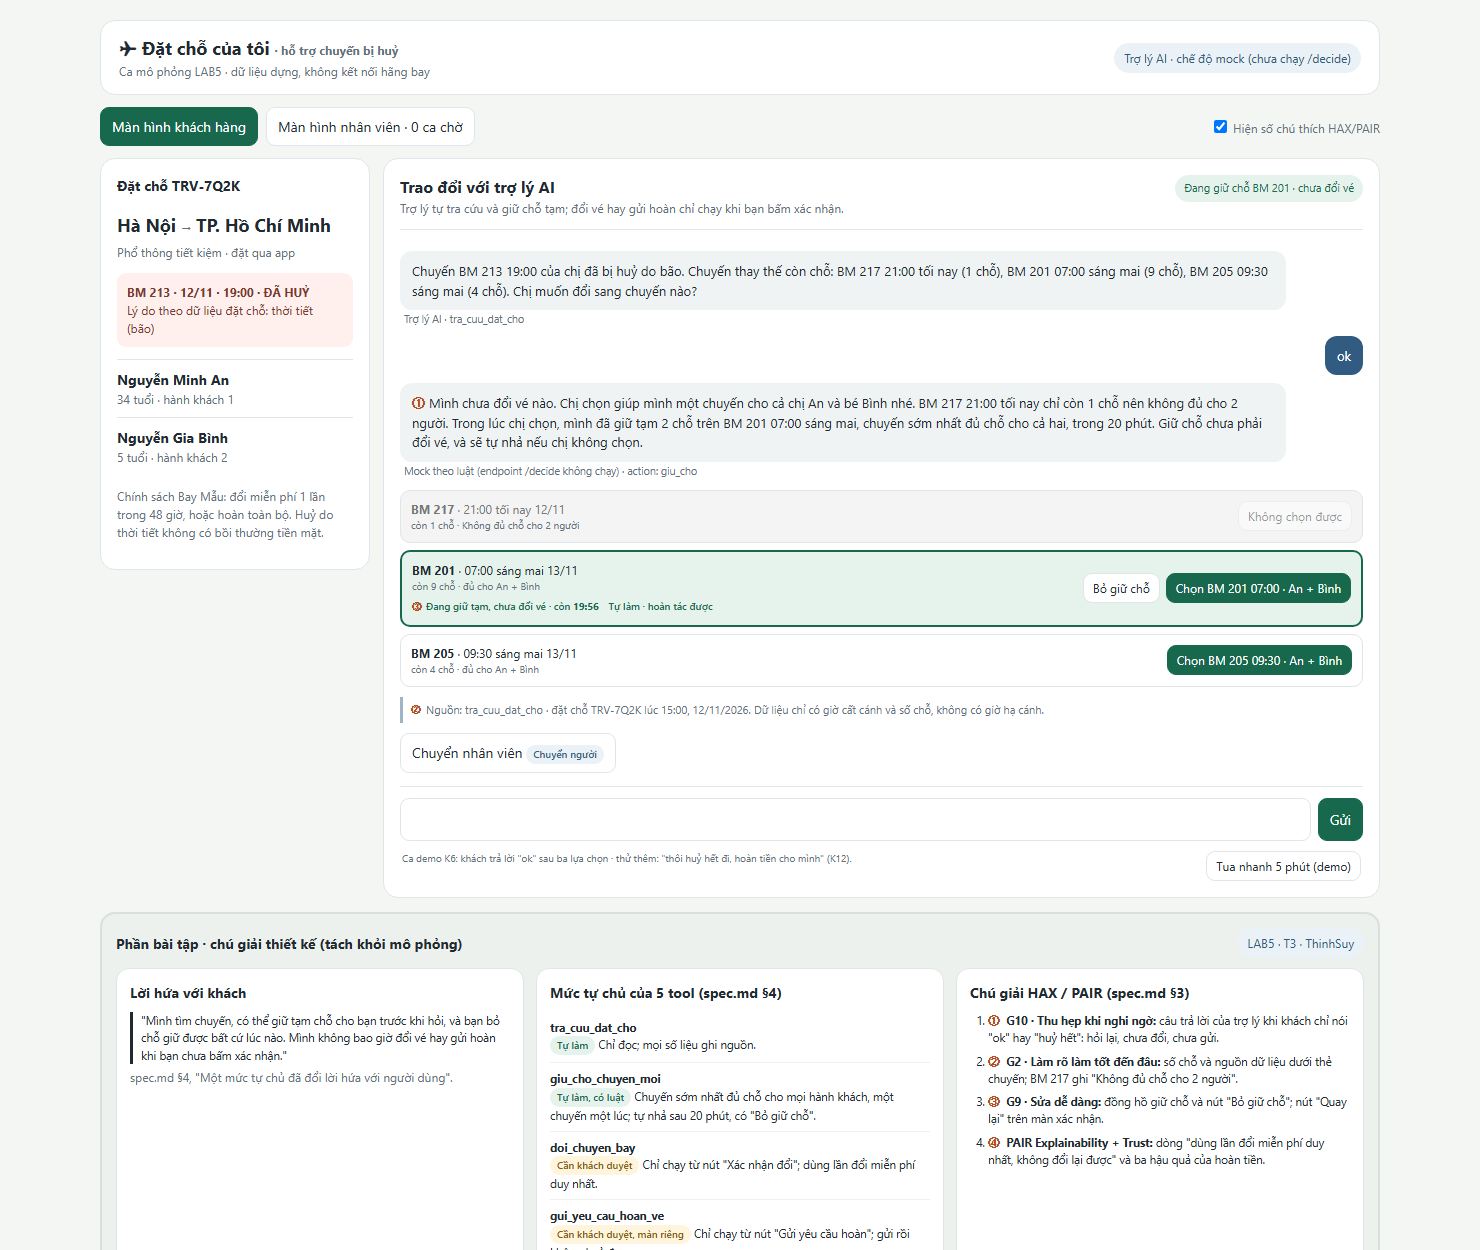
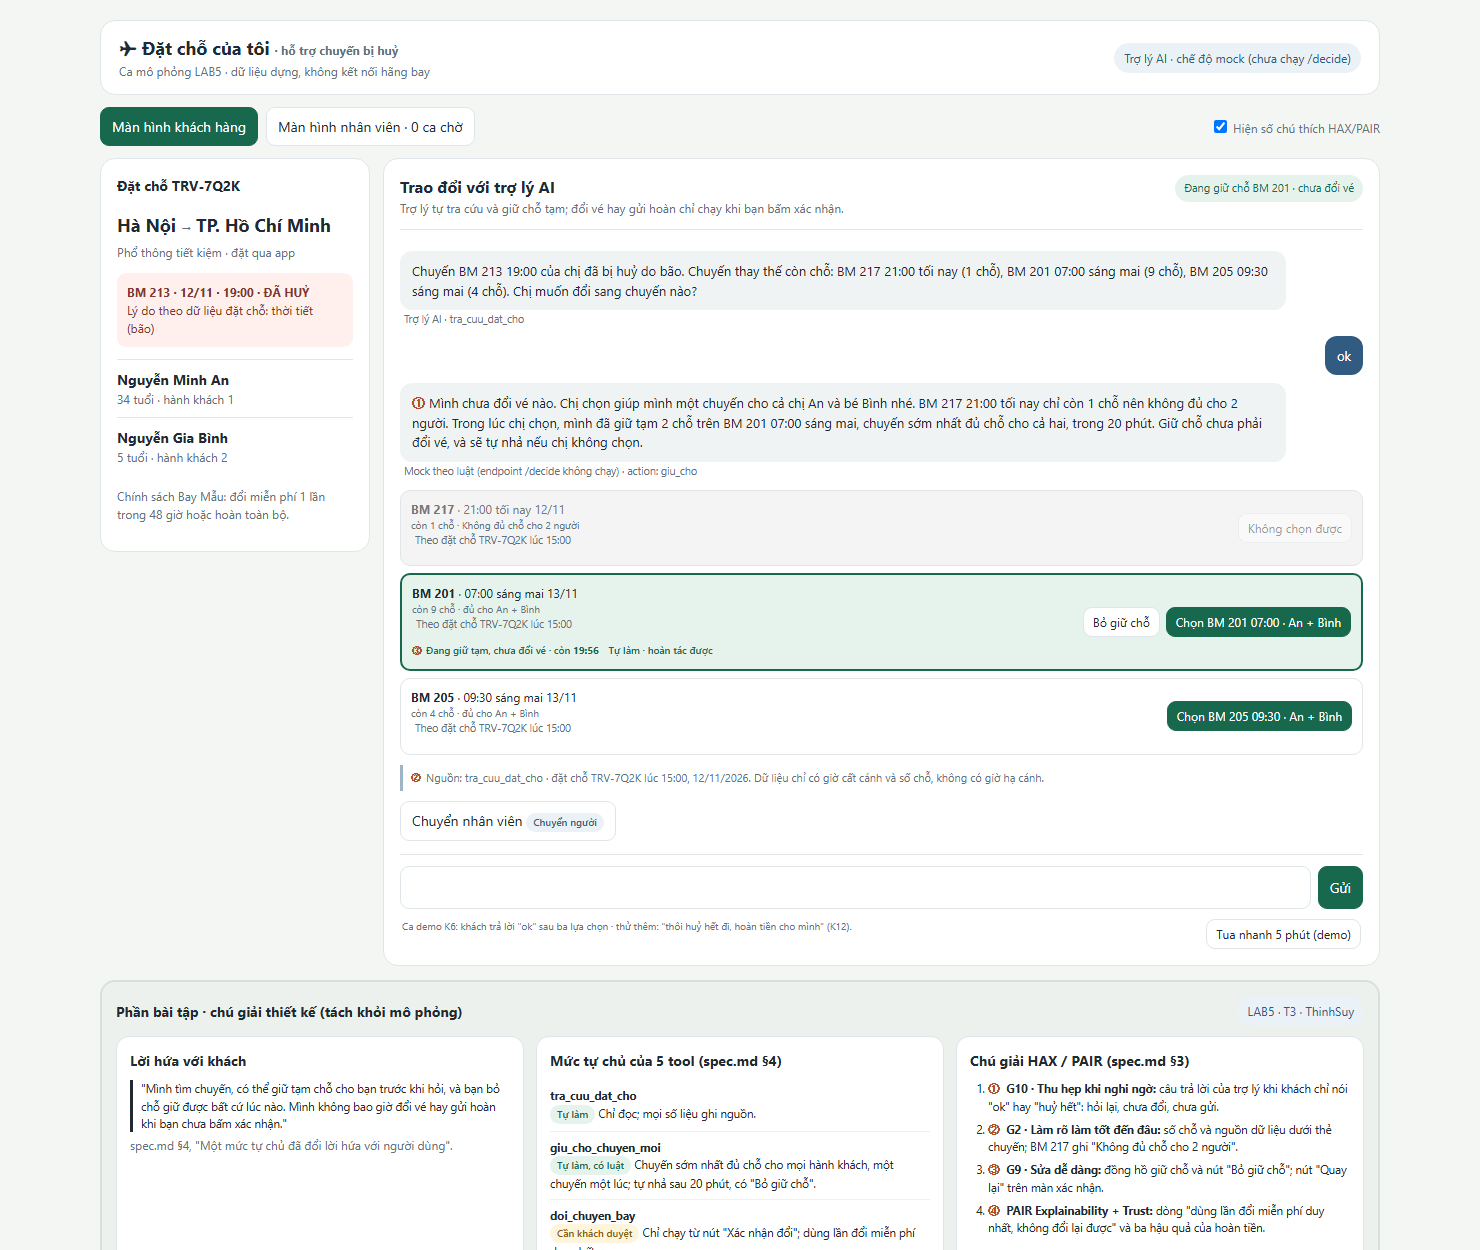
Fix Thinh prototype evidence and annotations

diff --git a/prototype/index.html b/prototype/index.html
@@ -93,7 +93,7 @@ nav{display:flex;gap:8px;margin:12px 0;flex-wrap:wrap}
 <nav><button class="btn primary" id="customerTab">Màn hình khách hàng</button><button class="btn" id="staffTab">Màn hình nhân viên · <span id="queueCount">0</span> ca chờ</button><label class="muted" style="margin-left:auto;align-self:center"><input type="checkbox" checked id="showNotes"> Hiện số chú thích HAX/PAIR</label></nav>
 
 <div class="layout" id="customerScreen">
-<aside class="card booking"><h2>Đặt chỗ TRV-7Q2K</h2><div class="route">Hà Nội <span class="muted">→</span> TP. Hồ Chí Minh</div><div class="muted">Phổ thông tiết kiệm · đặt qua app</div><div class="cancel"><b>BM 213 · 12/11 · 19:00 · ĐÃ HUỶ</b><br>Lý do theo dữ liệu đặt chỗ: thời tiết (bão)</div><div class="pass"><b>Nguyễn Minh An</b><div class="muted">34 tuổi · hành khách 1</div></div><div class="pass"><b>Nguyễn Gia Bình</b><div class="muted">5 tuổi · hành khách 2</div></div><p class="muted">Chính sách Bay Mẫu: đổi miễn phí 1 lần trong 48 giờ, hoặc hoàn toàn bộ. Huỷ do thời tiết không có bồi thường tiền mặt.</p></aside>
+<aside class="card booking"><h2>Đặt chỗ TRV-7Q2K</h2><div class="route">Hà Nội <span class="muted">→</span> TP. Hồ Chí Minh</div><div class="muted">Phổ thông tiết kiệm · đặt qua app</div><div class="cancel"><b>BM 213 · 12/11 · 19:00 · ĐÃ HUỶ</b><br>Lý do theo dữ liệu đặt chỗ: thời tiết (bão)</div><div class="pass"><b>Nguyễn Minh An</b><div class="muted">34 tuổi · hành khách 1</div></div><div class="pass"><b>Nguyễn Gia Bình</b><div class="muted">5 tuổi · hành khách 2</div></div><p class="muted">Chính sách Bay Mẫu: đổi miễn phí 1 lần trong 48 giờ hoặc hoàn toàn bộ.</p></aside>
 <section class="card chat"><div class="chathead"><div><h1>Trao đổi với trợ lý AI</h1><div class="muted">Trợ lý tự tra cứu và giữ chỗ tạm; đổi vé hay gửi hoàn chỉ chạy khi bạn bấm xác nhận.</div></div><span id="state" class="state">Chưa thay đổi vé</span></div>
 <div id="msgs" class="msgs"></div>
 <div class="entry"><input id="message" value="ok" aria-label="Tin nhắn của khách"><button class="btn primary" id="send">Gửi</button></div>
@@ -188,12 +188,12 @@ const handoffBtn = '<button class="btn" onclick="handoff(\'Khách bấm Chuyển
 
 function cardHTML(f) {
   if (!fits(f)) {
-    return `<div class="flight blocked"><div><b>${f.id}</b> · ${f.time} ${f.day}<small>còn ${f.seats} chỗ · Không đủ chỗ cho ${PAX.length} người</small></div><div class="fbtns"><button class="btn small" disabled>Không chọn được</button></div></div>`;
+    return `<div class="flight blocked"><div><b>${f.id}</b> · ${f.time} ${f.day}<small>còn ${f.seats} chỗ · Không đủ chỗ cho ${PAX.length} người</small><small class="src">Theo đặt chỗ TRV-7Q2K lúc 15:00</small></div><div class="fbtns"><button class="btn small" disabled>Không chọn được</button></div></div>`;
   }
   const held = st.held === f.id;
   const holdLine = held ? `<small class="holdline"><span class="mark">③</span>Đang giữ tạm, chưa đổi vé · còn <span class="timer" id="clock">${fmt(st.secs)}</span> <span class="pill">Tự làm · hoàn tác được</span></small>` : '';
   const release = held ? '<button class="btn small" onclick="releaseHold()">Bỏ giữ chỗ</button>' : '';
-  return `<div class="flight ${held ? 'held' : ''}"><div><b>${f.id}</b> · ${f.time} ${f.day}<small>còn ${f.seats} chỗ · đủ cho An + Bình</small>${holdLine}</div><div class="fbtns">${release}<button class="btn small primary" onclick="choose('${f.id}')">Chọn ${f.id} ${f.time} · An + Bình</button></div></div>`;
+  return `<div class="flight ${held ? 'held' : ''}"><div><b>${f.id}</b> · ${f.time} ${f.day}<small>còn ${f.seats} chỗ · đủ cho An + Bình</small><small class="src">Theo đặt chỗ TRV-7Q2K lúc 15:00</small>${holdLine}</div><div class="fbtns">${release}<button class="btn small primary" onclick="choose('${f.id}')">Chọn ${f.id} ${f.time} · An + Bình</button></div></div>`;
 }
 const SOURCE = '<div class="evidence"><span class="mark">②</span>Nguồn: tra_cuu_dat_cho · đặt chỗ TRV-7Q2K lúc 15:00, 12/11/2026. Dữ liệu chỉ có giờ cất cánh và số chỗ, không có giờ hạ cánh.</div>';
 
@@ -398,5 +398,6 @@ checkLive();
 // Shareable demo states for screenshots and live presentation; normal use starts in the customer flow.
 const demoMode = new URLSearchParams(location.search).get('demo');
 if (demoMode === 'K6') { $('message').value = 'ok'; setTimeout(() => sendMessage(), 250); }
+if (demoMode === 'confirm') { $('message').value = 'ok'; setTimeout(() => sendMessage().then(() => choose('BM 201', false)), 250); }
 if (demoMode === 'staff') { setTimeout(() => { toStaff('Khách trả lời “ok” sau khi xem các chuyến; cần làm rõ lựa chọn. '); switchScreen('staff'); }, 250); }
 </script></body></html>
